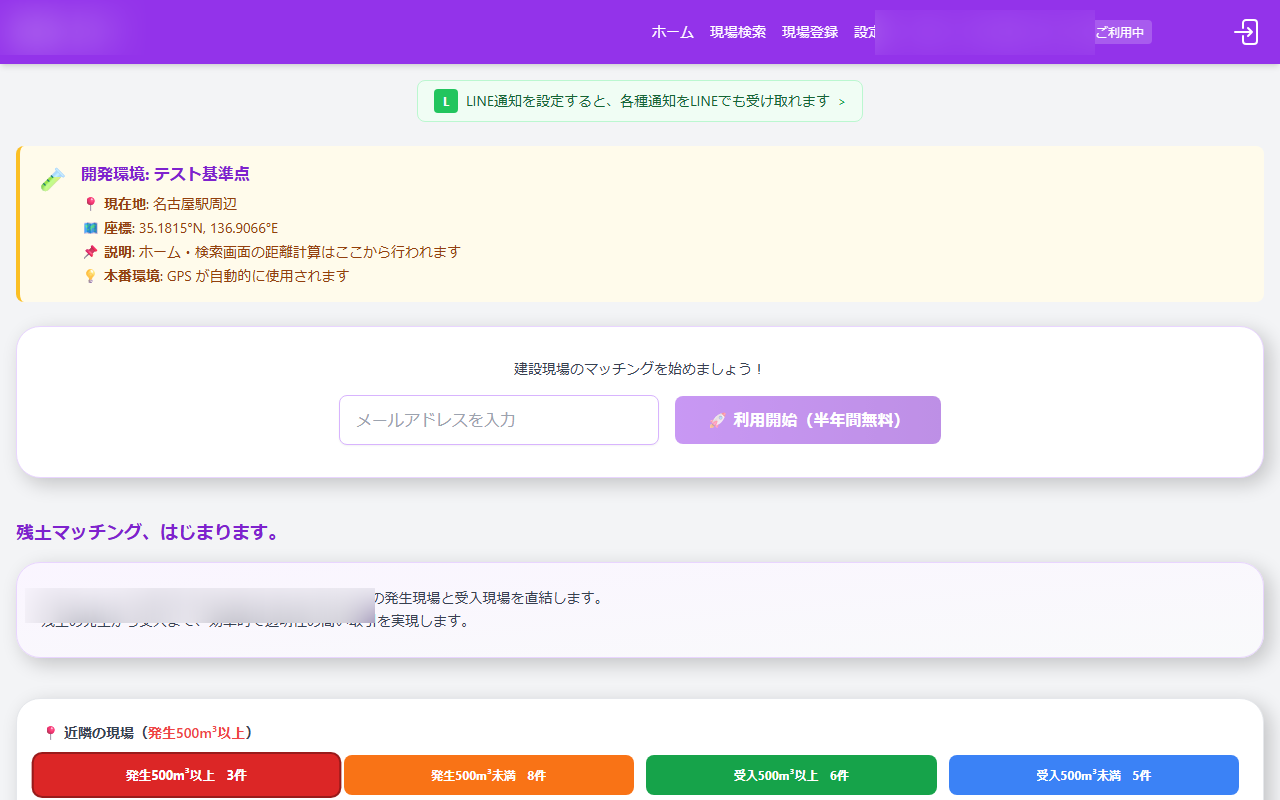
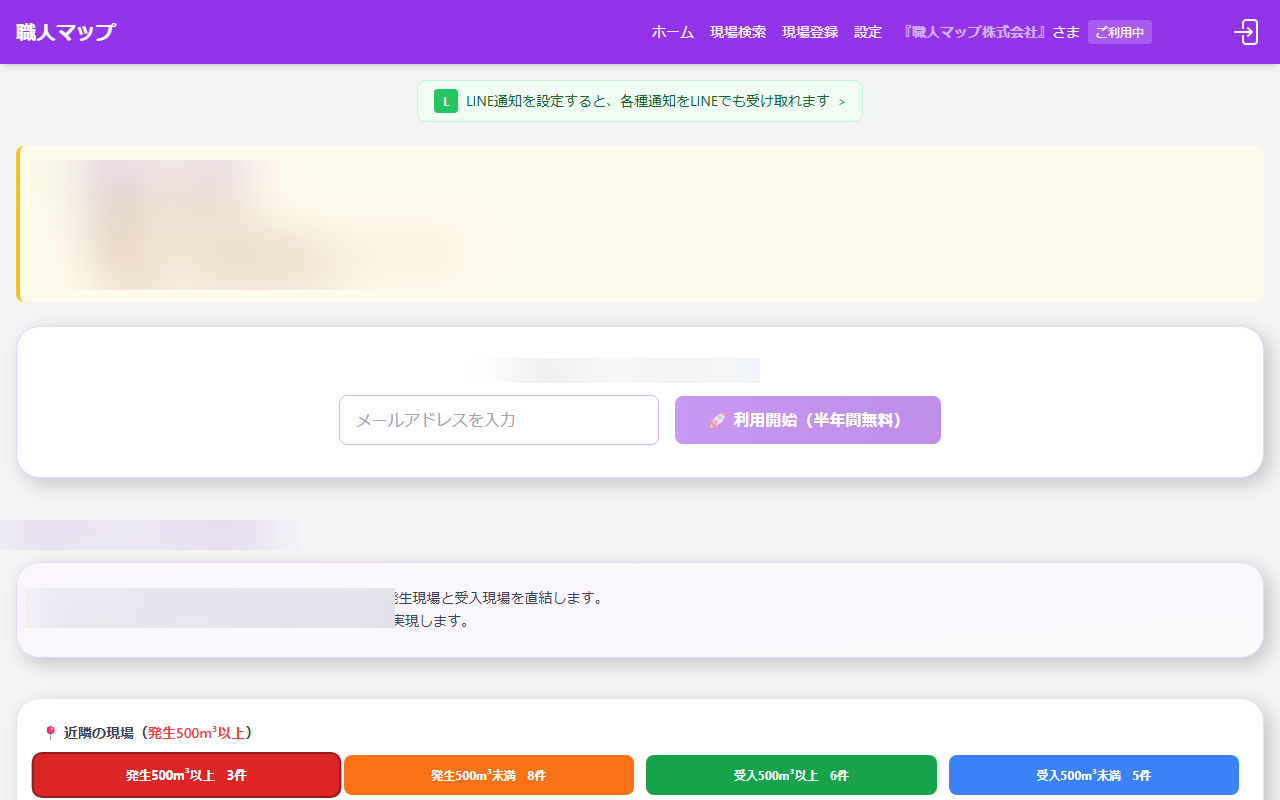
NDA対応強化: 業種抽象化・セクション名変更・追加ぼかし
- テキスト: 「建設業界」→「業界特化型」「特定業界」に抽象化
- テキスト: 「ZEUS Payment」→「外部決済サービス」に一般化
- テキスト: 「136人日規模」の具体的見積もり値を削除
- セクション名: 「課題」→「技術的チャレンジ」に変更
- スクリーンショット: ドメイン固有テキスト（残土マッチング、建設現場、テスト基準点等）を追加ぼかし

diff --git a/src/data/projects.ts b/src/data/projects.ts
@@ -405,14 +405,14 @@ export const projects: Project[] = [
     badgeColor: "#16a34a",
     borderColor: "#16a34a",
     description:
-      "建設業界向けのBtoBマッチングプラットフォーム。地図ベースの検索、会員管理、決済連携、メールテンプレート管理など約30画面・40API・24テーブルの本格業務システム。企画提案から設計・実装・本番デプロイまで一人で担当。",
+      "業界特化型のBtoBマッチングプラットフォーム。地図ベースの検索、会員管理、決済連携、メールテンプレート管理など約30画面・40API・24テーブルの本格業務システム。企画提案から設計・実装・本番デプロイまで一人で担当。",
     stats: ["約30画面", "40 APIエンドポイント", "24テーブル"],
     tags: ["Next.js 14", "TypeScript", "Prisma", "PostgreSQL", "Tailwind CSS", "Vercel", "Neon DB", "Cookie認証", "nodemailer"],
     thumbnail: "/thumbnails/btob-matching/03-home-map.png",
     screenshots: [
       { src: "/thumbnails/btob-matching/01-login.png", caption: "ログイン画面 — Cookie認証によるセッション管理" },
       { src: "/thumbnails/btob-matching/03-home-map.png", caption: "ホーム（地図検索） — 最大500件のピン同時表示・レスポンシブ対応" },
-      { src: "/thumbnails/btob-matching/04-search.png", caption: "ワード検索 — 工期・土質・数量・フリーワードで絞り込み" },
+      { src: "/thumbnails/btob-matching/04-search.png", caption: "ワード検索 — 複数条件・フリーワードで絞り込み" },
       { src: "/thumbnails/btob-matching/06-admin-dashboard.png", caption: "管理者ダッシュボード — 会員数・現場数・売上をリアルタイム集計" },
       { src: "/thumbnails/btob-matching/07-admin-users.png", caption: "会員管理 — 承認ワークフロー・ステータス管理" },
       { src: "/thumbnails/btob-matching/08-admin-projects.png", caption: "現場管理 — 登録内容の審査・承認" },
@@ -421,12 +421,12 @@ export const projects: Project[] = [
     ],
     detail: {
       overview:
-        "建設業界の企業間マッチングを支援するWebプラットフォーム。地図ベースの直感的な検索UI、会員登録から承認までのワークフロー、サブスクリプション決済、メールテンプレート管理など、業務システムに必要な機能をフルスタックで実装。企画提案書の作成段階からクライアントと協議し、設計・実装・本番デプロイ・保守運用まで一貫して担当。",
+        "特定業界の企業間マッチングを支援するWebプラットフォーム。地図ベースの直感的な検索UI、会員登録から承認までのワークフロー、サブスクリプション決済、メールテンプレート管理など、業務システムに必要な機能をフルスタックで実装。企画提案書の作成段階からクライアントと協議し、設計・実装・本番デプロイ・保守運用まで一貫して担当。",
       challenges: [
-        "地図上に最大500件のピンを同時表示しつつ、パフォーマンスを維持する検索UI",
+        "Google Maps上に最大500件のピンを同時表示しつつ、パフォーマンスを維持する検索UI",
         "会員登録→一時保存→本登録→管理者承認という多段階ワークフローの設計",
         "Cookie認証（httpOnly sessionToken）＋ HMAC署名による改ざん防止の実装",
-        "外部決済サービス（ZEUS Payment）とのWebhook連携・署名検証",
+        "外部決済サービスとのWebhook連携・署名検証",
         "24テーブル・日本語Enumを含むPrismaスキーマの設計と運用",
         "メールテンプレートの変数埋め込み時のXSS対策（HTMLエスケープ）",
       ],
@@ -440,13 +440,13 @@ export const projects: Project[] = [
       ],
       results: [
         "約30画面・40APIエンドポイント・24テーブルの業務システムを本番稼働",
-        "企画提案から本番デプロイまで一人で完遂（設計136人日規模）",
+        "企画提案から本番デプロイまで一人で完遂",
         "セキュリティレビューを実施し、セッション署名・CSRF対策・XSS防止・エラー情報漏洩対策を強化",
         "Vercel＋Neonのサーバーレス構成でインフラ管理コストを最小化",
         "管理者向けダッシュボード・メールテンプレート管理など運用機能も充実",
       ],
       techDetail:
-        "Next.js 14 (App Router) + React 18 + TypeScript + Tailwind CSS。DB: Prisma 6 + PostgreSQL (Neon)。認証: Cookie (httpOnly) + HMAC-SHA256署名。決済: ZEUS Payment Service (Webhook)。メール: nodemailer。ホスティング: Vercel + Vercel Blob。日付: dayjs (UTC/JST変換)。",
+        "Next.js 14 (App Router) + React 18 + TypeScript + Tailwind CSS。DB: Prisma 6 + PostgreSQL (Neon)。認証: Cookie (httpOnly) + HMAC-SHA256署名。決済: 外部決済サービス (Webhook)。メール: nodemailer。ホスティング: Vercel + Vercel Blob。日付: dayjs (UTC/JST変換)。",
     },
   },
   {

diff --git a/src/app/works/[slug]/ProjectDetail.tsx b/src/app/works/[slug]/ProjectDetail.tsx
@@ -177,7 +177,7 @@ export default function ProjectDetail({ project }: { project: Project }) {
         <FadeIn>
           <section style={{ marginBottom: 48 }}>
             <h2 style={{ fontSize: 18, fontWeight: 700, color: "#1a1a1a", marginBottom: 16, paddingBottom: 8, borderBottom: "2px solid #ddd" }}>
-              課題
+              技術的チャレンジ
             </h2>
             <ul style={{ listStyle: "none", padding: 0 }}>
               {project.detail.challenges.map((item, i) => (
